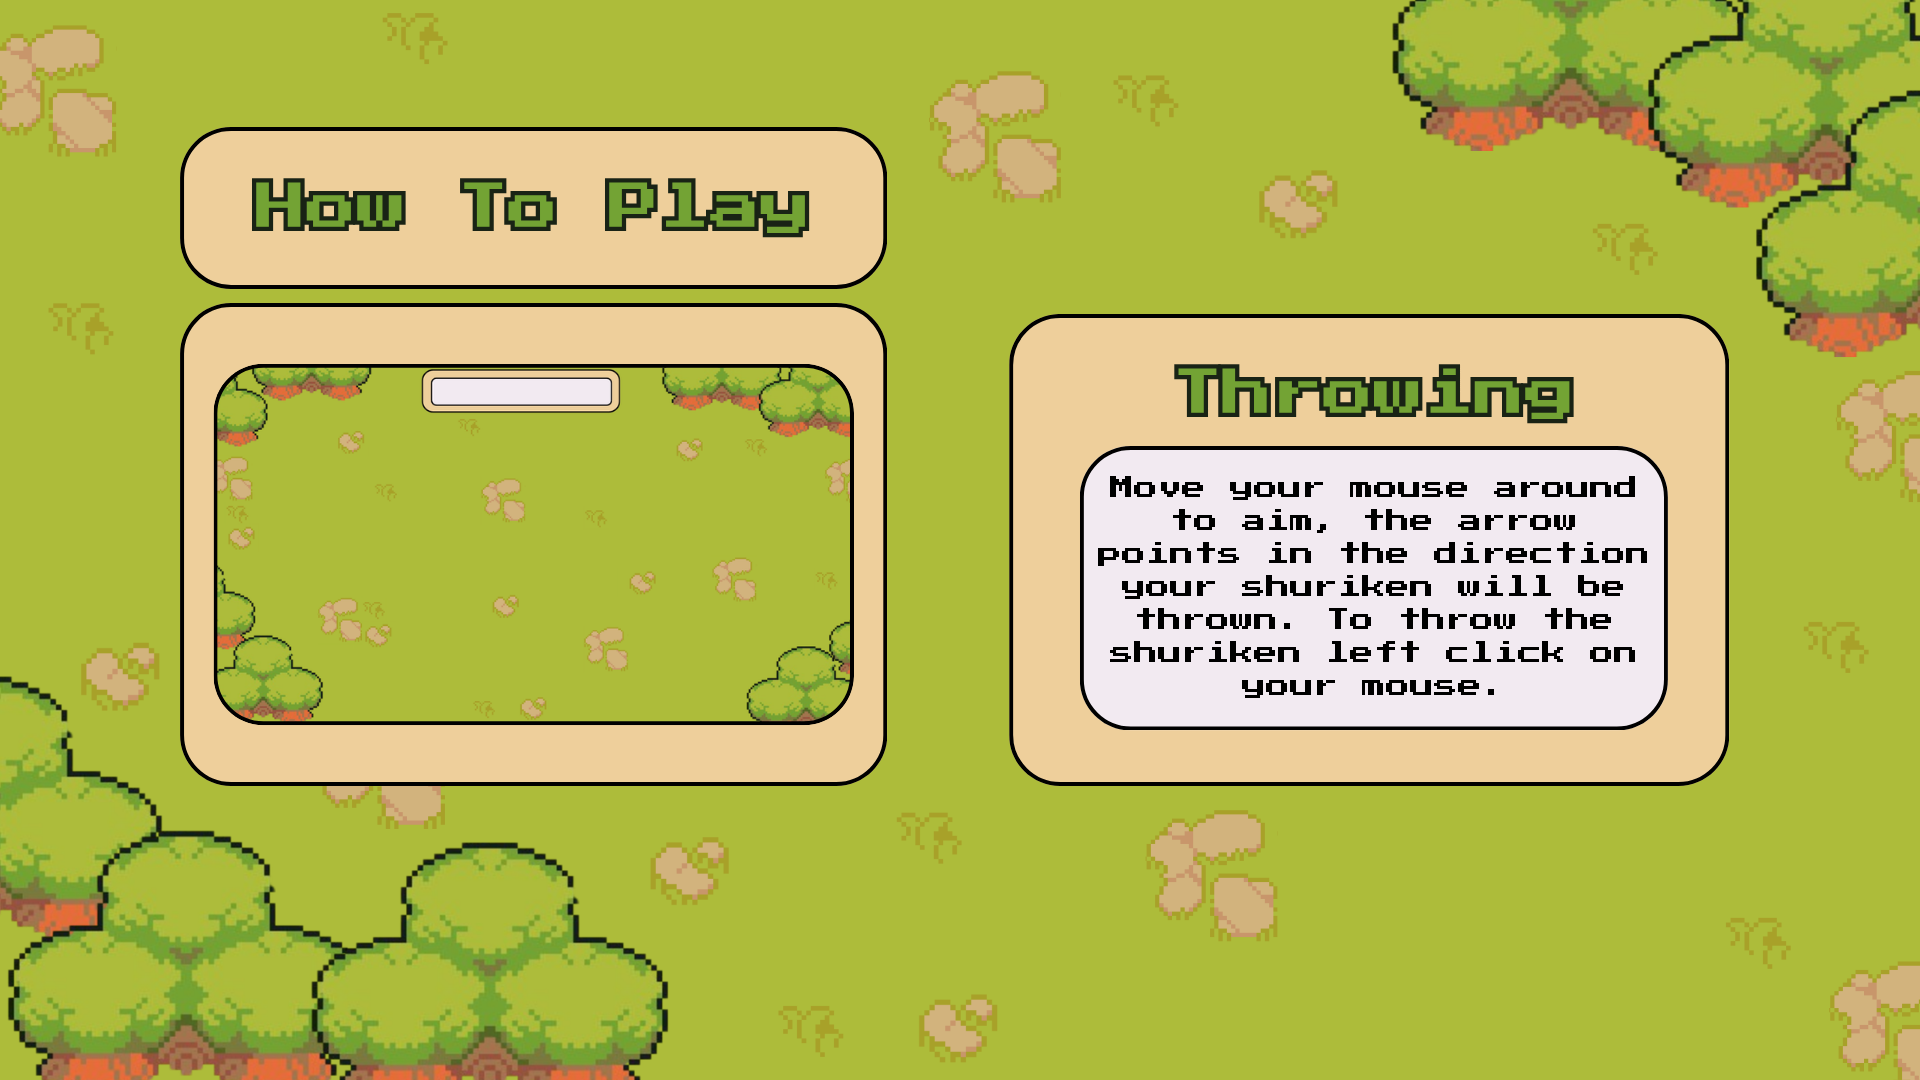
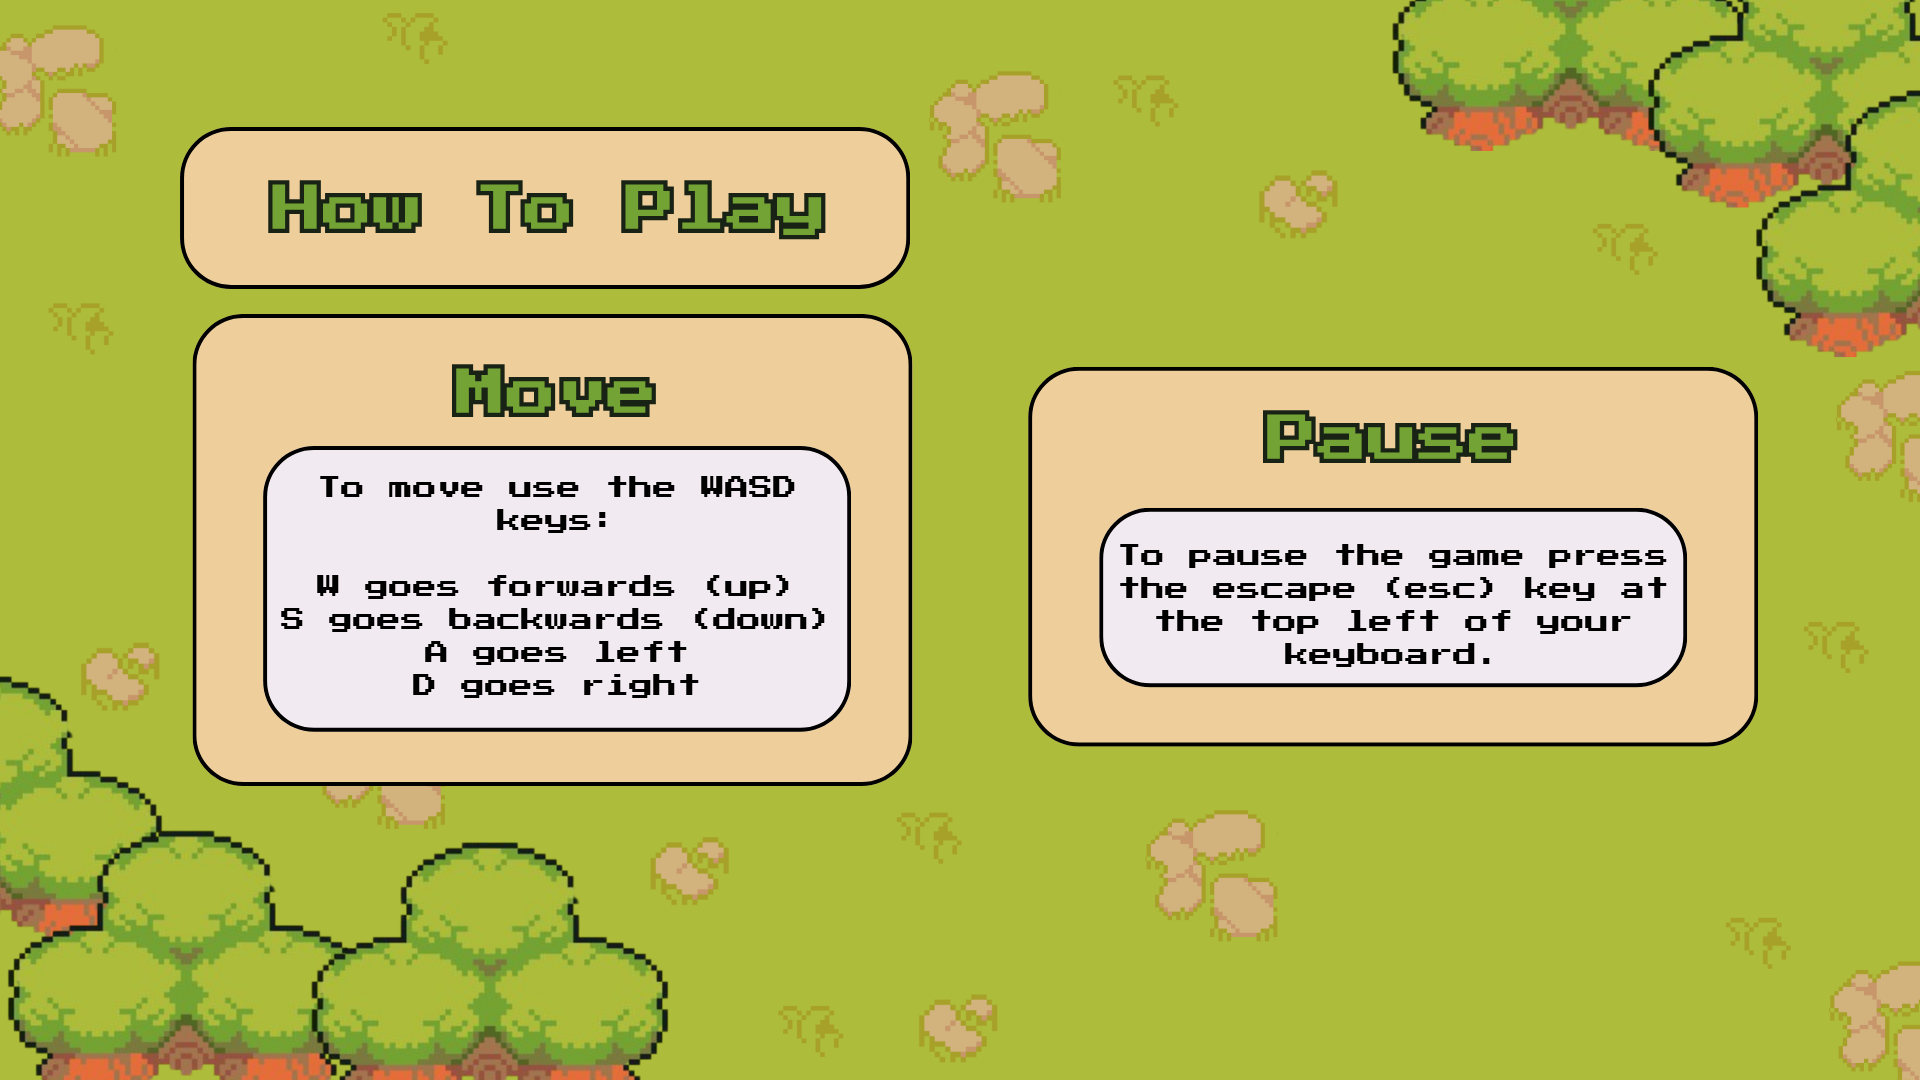
added how to play on the front screen and adjusted a few of the graphic desgins

Changed region(s): [[0.0938, 0.1222, 0.9375, 0.7333]]

diff --git a/Classes/GameScreen.js b/Classes/GameScreen.js
@@ -15,6 +15,8 @@ class GameScreen {
     this.instrY = height / 2 + 210;
     this.backX = width / 2;
     this.backY = height - 100;
+    this.howToX = width / 2;
+    this.howToY = height / 2 + 160;
     
     // Instruction screen tracking
     this.instrPage = 1;
@@ -59,6 +61,22 @@ class GameScreen {
       textSize(24);
       text("START", this.startX, this.startY);
 
+      push();
+      // Instructions button
+      if (this.isHovering(this.howToX, this.howToY)) {
+        fill(255, 200, 0);
+      } else {
+        fill('#eecf9b');
+      }
+      stroke(0);
+      strokeWeight(3);
+      rect(this.howToX, this.howToY, this.buttonW, this.buttonH, 12);
+      noStroke();
+      pop();
+      fill(0);
+      textSize(24);
+      text("HOW TO PLAY", this.howToX, this.howToY);
+
     } else if (this.state === "game") {
       if (gameImg) {
         image(gameImg, 0, 0, width, height);
@@ -98,7 +116,7 @@ class GameScreen {
       pop();
       fill(0);
       textSize(24);
-      text("PLAY AGAIN", this.playAgainX, this.playAgainY);
+      text("RESTART", this.playAgainX, this.playAgainY);
 
       push();
       // Instructions button
@@ -156,7 +174,7 @@ class GameScreen {
       pop();
       fill(0);
       textSize(24);
-      text("PLAY AGAIN", this.playAgainX, this.playAgainY);
+      text("RESTART", this.playAgainX, this.playAgainY);
 
     } else if (this.state === "instructions") {
       // Display instruction images
@@ -223,14 +241,16 @@ class GameScreen {
   handleMousePressed() {
     if (this.state === "menu" && this.isHovering(this.startX, this.startY)) {
       this.state = "game";
-    } else if (this.state === "pause") {
+    }   else if (this.isHovering(this.howToX, this.howToY)){
+      this.state = "instructions";
+    }else if (this.state === "pause") {
       if (this.isHovering(this.mainMenuX, this.mainMenuY)) {
         this.state = "menu";
       } else if (this.isHovering(this.playAgainX, this.playAgainY)) {
         this.state = "game";
       } else if (this.isHovering(this.instrX, this.instrY)) {
         this.state = "instructions";
-      }
+      } 
     } else if (this.state === "gameover") {
       if (this.isHovering(this.mainMenuX, this.mainMenuY)) {
         this.state = "menu";
